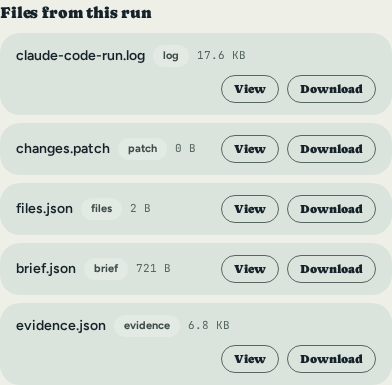
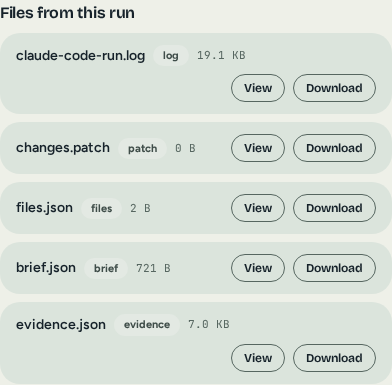
Update: the tutorial shots, workflow.gif, hero.gif and attempt.png retaken after the Phase 78 redesign
The billed recordings were run on 2026-10-20 against a fresh release build. The
tutorial's Agent settings shot now opens the Agent fold, shot 14 shows the whole
run card, hero.gif ends on the run's files, and decision-inbox.png opens on the
questions. The two specs follow the screens (the Run dialog's agent field, the
removed profile snapshot, a runner that answers before the dialog opens, an
authenticated API client). The sidebar's project switcher now names a project
created after the list was read. The tutorial and README texts describe what the
new images show. agents.png and agents-flow.gif stay: their test run starts
Codex, which fails on its configured model.

diff --git a/frontend/e2e/agent-assets.spec.ts b/frontend/e2e/agent-assets.spec.ts
@@ -96,7 +96,10 @@ async function screenshotFullContent(page: Page, outPath: string): Promise<void>
 async function apiFetch(p: string, init?: RequestInit) {
   let lastErr: unknown;
   for (let attempt = 0; attempt < 6; attempt++) {
-    const res = await fetch(`${API}${p}`, init);
+    // The board requires its token; the browser gets it as a cookie from `/`.
+    const headers = new Headers(init?.headers);
+    headers.set('authorization', `Bearer ${process.env.TACK_API_TOKEN ?? ''}`);
+    const res = await fetch(`${API}${p}`, { ...init, headers });
     if (res.ok) {
       if (res.status === 204) return null;
       return res.json();
@@ -163,15 +166,16 @@ test.beforeAll(async () => {
   });
   const deadline = Date.now() + 20_000;
   while (Date.now() < deadline) {
-    const runners = (await apiFetch('/runners')) as { data: Array<{ runner_id: string; state: string }> };
-    const active = runners.data.find((r) => r.state === 'active');
+    const runners = (await apiFetch('/runners')) as { data: Array<{ runner_id: string; state: string; online?: boolean }> };
+    // The Run dialog offers only a runner whose heartbeat is current (`online`).
+    const active = runners.data.find((r) => r.state === 'active' && r.online === true);
     if (active) {
       embeddedRunnerId = active.runner_id;
       break;
     }
     await new Promise((r) => setTimeout(r, 500));
   }
-  if (!embeddedRunnerId) throw new Error('the embedded runner never became active');
+  if (!embeddedRunnerId) throw new Error('the embedded runner never became active and online');
 
   const project = (await apiFetch('/projects', {
     method: 'POST',
@@ -186,7 +190,8 @@ test.beforeAll(async () => {
   await apiFetch(`/projects/${projectId}`, {
     method: 'PATCH',
     headers: { 'content-type': 'application/json' },
-    body: JSON.stringify({ default_harness: 'claude-code', default_model: 'claude-sonnet-5-5' }),
+    // The server fills a run's repository from the project: name the disposable fixture as its folder.
+    body: JSON.stringify({ default_harness: 'claude-code', default_model: 'claude-sonnet-5-5', code_origin: 'folder', repository: repoDir }),
   });
 
   const profile = (await apiFetch('/agent-profiles', {
@@ -221,12 +226,11 @@ test('hero gif', async ({ page }) => {
 
   // The dialog has no repository fields: the server fills the repository from
   // the project, so name the disposable git fixture as the project's folder.
-  const patched = await fetch(`${API}/projects/${projectId}`, {
+  await apiFetch(`/projects/${projectId}`, {
     method: 'PATCH',
     headers: { 'content-type': 'application/json' },
     body: JSON.stringify({ code_origin: 'folder', repository: repoDir }),
   });
-  expect(patched.ok, `set project folder: ${patched.status}`).toBeTruthy();
 
   await page.goto(`${BASE}/projects/${projectId}/board`);
   await waitForApp(page);
@@ -244,7 +248,7 @@ test('hero gif', async ({ page }) => {
 
   await page.getByText('Advanced for this run').click();
   await page.waitForTimeout(400);
-  await page.getByLabel('Agent', { exact: true }).selectOption('claude-code');
+  await page.getByRole('combobox', { name: 'Agent', exact: true }).selectOption('claude-code');
   await page.waitForTimeout(900);
 
   // ── Scene: submit the real dialog ───────────────────────────────────────
@@ -286,8 +290,11 @@ test('hero gif', async ({ page }) => {
 
   await page.getByRole('button', { name: 'Show questions & files' }).first().click();
   await page.waitForTimeout(1500);
-  await expect(page.getByText('Files from this run', { exact: true }).first()).toBeVisible();
-  await page.waitForTimeout(2500);
+  const filesHeading = page.getByText('Files from this run', { exact: true }).first();
+  await expect(filesHeading).toBeVisible();
+  // End on the files themselves: they sit below the fold of the drawer.
+  await filesHeading.scrollIntoViewIfNeeded();
+  await page.waitForTimeout(3500);
 
   // ── Flush the video, convert to GIF ─────────────────────────────────────
   await page.close();
@@ -314,7 +321,7 @@ test('agents screenshot', async ({ page }) => {
 
   await page.goto(`${BASE}/agents`);
   await waitForApp(page);
-  await expect(page.getByText('Agent execution on this machine')).toBeVisible();
+  await expect(page.getByRole('heading', { name: 'Agent execution on this machine' })).toBeVisible();
   await expect(page.getByText('Running', { exact: true }).first()).toBeVisible({ timeout: 10_000 });
 
   // Step 5 — a real test run, through the Agents page's own control (not
@@ -355,7 +362,7 @@ test('agents flow gif', async ({ page }) => {
 
   await page.goto(`${BASE}/agents`);
   await waitForApp(page);
-  await expect(page.getByText('Agent execution on this machine')).toBeVisible();
+  await expect(page.getByRole('heading', { name: 'Agent execution on this machine' })).toBeVisible();
   await expect(page.getByText('Running', { exact: true }).first()).toBeVisible({ timeout: 10_000 });
 
   await page.evaluate(() => {
@@ -427,13 +434,6 @@ test('attempt screenshot', async ({ page }) => {
       agent_profile_id: agentProfileId,
       requested_harness_kind: 'claude-code',
       requested_model: 'claude-sonnet-5-5',
-      agent_profile_snapshot: {
-        name: PROFILE_NAME,
-        instructions: PROFILE_INSTRUCTIONS,
-        tool_policy: {},
-        timeout_seconds: 180,
-        budgets: {},
-      },
       repository_snapshot: { kind: 'git', remote: repoDir, base_revision: repoRev, subdirectory: null },
       permission_policy: { tools: [], network: false },
       budgets: {},

diff --git a/frontend/e2e/tutorial-assets.spec.ts b/frontend/e2e/tutorial-assets.spec.ts
@@ -96,6 +96,18 @@ async function waitForRequestState(
   );
 }
 
+async function waitForRunnerAnswering(timeoutMs = 60_000): Promise<void> {
+  const start = Date.now();
+  while (Date.now() - start < timeoutMs) {
+    const runners = (await apiFetch('/runners')) as {
+      data: Array<{ state: string; online?: boolean }>;
+    };
+    if (runners.data.some((r) => r.state === 'active' && r.online === true)) return;
+    await new Promise((r) => setTimeout(r, 500));
+  }
+  throw new Error('no runner reported active and online within the timeout');
+}
+
 // Same internal-scroll-aware capture as agent-assets.spec.ts: the app's main
 // content area scrolls inside `Layout.tsx`'s overflow container, so a plain
 // screenshot only shows one viewport's worth.
@@ -334,12 +346,16 @@ test.describe.serial('tutorial screenshots', () => {
     // so the run below uses the agent's own default model.
     await page.goto(`${BASE}/projects/${projectId}/settings?tab=automation`);
     await waitForApp(page);
-    const agentSettings = page.locator('div').filter({
+    // Each Automation section is a fold: one line until opened. Open Agent
+    // and photograph that section alone.
+    const agentSettings = page.locator('details').filter({
       has: page.getByRole('heading', { name: 'Agent', exact: true }),
-    }).last();
-    await expect(page.getByRole('heading', { name: 'Agent', exact: true })).toBeVisible();
+    });
+    await expect(agentSettings).toHaveCount(1);
+    await agentSettings.locator('summary').click();
+    await expect(agentSettings.getByText('Default profile')).toBeVisible();
     await page.waitForTimeout(600);
-    await page.getByRole('heading', { name: 'Agent', exact: true }).scrollIntoViewIfNeeded();
+    await agentSettings.scrollIntoViewIfNeeded();
     await page.waitForTimeout(300);
     await agentSettings.screenshot({
       path: path.join(OUT_DIR, '09-default-model.png'),
@@ -382,6 +398,10 @@ test.describe.serial('tutorial screenshots', () => {
       headers: { 'content-type': 'application/json' },
       body: JSON.stringify({ code_origin: 'folder', repository: repoDir }),
     });
+    // The dialog reads the runner list once, when it opens, and offers only a
+    // runner whose heartbeat is current: wait until the runner just turned on
+    // answers, or a fresh start opens the dialog on "Select where this runs".
+    await waitForRunnerAnswering();
     // Tall enough that the dialog (max 90vh) shows the whole flow unscrolled.
     await page.setViewportSize({ width: 1440, height: 2000 });
     await page.goto(`${BASE}/projects/${projectId}/board`);
@@ -466,12 +486,14 @@ test.describe.serial('tutorial screenshots', () => {
     await expect(
       page.getByText(/^Finished/).first(),
     ).toBeVisible({ timeout: 15_000 });
-    // Bring the attempt card fully into the drawer's own scroll viewport —
-    // its cost tiles sit below the fold otherwise.
+    // The whole of Run 1 in one frame: a viewport tall enough for the card,
+    // scrolled inside the drawer so the card's heading is at the top.
+    await page.setViewportSize({ width: 1440, height: 1500 });
+    await page.waitForTimeout(400);
     await page
-      .getByRole('button', { name: 'Show questions & files' })
+      .getByText('Run 1', { exact: true })
       .first()
-      .scrollIntoViewIfNeeded();
+      .evaluate((el) => el.scrollIntoView({ block: 'start' }));
     await page.waitForTimeout(600);
     await page.screenshot({
       path: path.join(OUT_DIR, '14-execution-succeeded.png'),

diff --git a/frontend/src/shared/ui/Sidebar.tsx b/frontend/src/shared/ui/Sidebar.tsx
@@ -90,7 +90,17 @@ const Sidebar: Component = () => {
   });
 
   const currentProjectId = () => params.id as string | undefined;
-  const [projects] = createResource(() => api.projects.list());
+  const [projects, { refetch: refetchProjects }] = createResource(() => api.projects.list());
+  // A project made after the list was read is missing from it, and the switcher would show no name:
+  // read the list again, once for each project that is not in it.
+  let refetchedFor: string | undefined;
+  createEffect(() => {
+    const id = currentProjectId();
+    if (!id || projects.loading || projects.error || refetchedFor === id) return;
+    if (projects()?.some((p) => p.id === id)) return;
+    refetchedFor = id;
+    void refetchProjects();
+  });
   const [health] = createResource(() => api.system.health());
 
   const handleProjectSwitch = (id: string) => {

diff --git a/frontend/e2e/screenshots.spec.ts b/frontend/e2e/screenshots.spec.ts
@@ -394,7 +394,9 @@ test.describe.serial('README screenshots', () => {
   });
 
   test('decision-inbox', async ({ page }) => {
-    await page.setViewportSize({ width: 1440, height: DRAWER_HEIGHT });
+    // Short enough that the drawer can scroll the questions to its top: below the
+    // heading there is about 1000px, so a taller frame would keep the Ids block above it.
+    await page.setViewportSize({ width: 1440, height: 1000 });
     await page.goto(`/projects/${projectId}/board?item=${seeded.decisionItemId}`);
     await waitForApp(page);
     const drawer = page.getByRole('dialog');

diff --git a/docs/book/src/user-guide/tutorial.md b/docs/book/src/user-guide/tutorial.md
@@ -80,12 +80,12 @@ its items with an agent; this tutorial gets there in step 6:
 
 ## 5. Say what "done" means
 
-Click the task to open its drawer. The **Details** tab is the task itself: its description,
-its **Acceptance criteria**, and a collapsed **For the agent** block. Acceptance criteria are a
+Click the task to open its drawer. Its **Overview** tab is the task itself: its description,
+its **Done when** list (the acceptance criteria), and a collapsed **For the agent** block. **Done when** is a
 checklist — one line per thing a person checks before calling the task done. **Add check** adds
 a line, and each line saves when you leave it:
 
-<img src="../screenshots/tutorial/06-brief.png" width="50%" alt="The drawer of 'Draft the launch announcement' on its Details tab: the Run with agent button, the description, three acceptance criteria — About 400 words, Ends with a call to action, A post the team can publish on launch day — with Up, Down and Remove, an Add check button, a collapsed For the agent section, and Link GitHub issue.">
+<img src="../screenshots/tutorial/06-brief.png" width="50%" alt="The drawer of 'Draft the launch announcement' on its Overview tab: the Run with agent button and the task's fields above, then the description, a Done when list of three checks — About 400 words, Ends with a call to action, A post the team can publish on launch day — each with Up, Down and Remove, an Add check button, a collapsed For the agent section, and Link GitHub issue.">
 
 **For the agent** holds what only the agent needs — checks a machine runs, limits on what it
 may touch, and the risk you see — and this announcement needs none of it. The agent receives the
@@ -111,18 +111,18 @@ signed in. Run `<command>` in a terminal.** with a link to that agent's own docu
 holds no model key and never signs in for you. **Run test** at the bottom runs the agent once to
 prove it:
 
-<img src="../screenshots/tutorial/08-agents-on.png" width="98%" alt="The Agents page after Turn on: execution Running with its start time and a Turn off button; Codex v0.149.1 and Claude Code v2.1.291 both installed, the Sign in step with one row per installed agent, saying Signed in or giving the command to run; the Test run section with a Run test button; and a collapsed Advanced section.">
+<img src="../screenshots/tutorial/08-agents-on.png" width="98%" alt="The Agents page after Turn on: execution Running with its start time and a Turn off button; Codex v0.149.1, Claude Code v2.1.304 and OpenCode installed (docket not installed), the Sign in step with one row per installed agent, saying Signed in or giving the command to run; the Test run section with a Run test button; and a collapsed Advanced section.">
 
 ## 7. Set up the project's agent
 
 Everything a run needs from the project lives in its **Settings → Automation** tab: where the
 code is, how the agent works on it (on a new branch of your repo, or in the folder directly),
 what happens when a run finishes, and the **Agent** section — which agent, which model, and the
-default profile:
+default profile. Each section is a single line until you open it; the picture shows **Agent** open:
 
-<img src="../screenshots/tutorial/09-default-model.png" width="60%" alt="The Agent section of a project's Automation settings: agent choices Claude Code, Codex, docket and opencode; the Model field set to Agent's default; default profile choices Implementer, Planner, Researcher and Reviewer; and a Manage profiles link.">
+<img src="../screenshots/tutorial/09-default-model.png" width="60%" alt="The Agent section of a project's Automation settings, opened: 'No default agent'; agent choices Claude Code, Codex and OpenCode; the Model field reading 'Choose an agent first'; default profile choices Implementer, Planner, Researcher and Reviewer; and a Manage profiles link.">
 
-The **Model** field offers **Agent's default** (recommended: the agent uses whatever model it
+Once an agent is chosen, the **Model** field offers **Agent's default** (recommended: the agent uses whatever model it
 uses on its own), the models the agent listed or suggested, and **Another model…**, a text field
 for a name in the agent's own spelling. A line under it says where the list came from, or how to
 name a model, with a link to that agent's own documentation; Tack never checks a typed name. This tutorial leaves the agent unchosen and picks it per run in step 8. It points the
@@ -176,16 +176,18 @@ The drawer follows the run as it happens: the **Last run** panel at the top read
 with the runner that took it. What the agent did, the tokens it used and its cost appear when it
 finishes:
 
-<img src="../screenshots/tutorial/13-execution-running.png" width="98%" alt="The task drawer mid-run: the card's chip reads Starting, the Last run panel reads Running with 'The agent is working on it' and Follow live and Stop, and the Execution tab shows Run 1 Running, started just now, with a note that what it did, its tokens and its cost appear when it finishes.">
+<img src="../screenshots/tutorial/13-execution-running.png" width="98%" alt="The task drawer mid-run: the card's chip on the board reads Running, and the Last run panel at the top of the drawer reads Running, 'The agent is working on it', 'Used 0 of 2 000 000 tokens', with Follow live and Stop buttons and a Run again button below it.">
 
 ## 10. See the result
 
-When the run finishes, the same tab is the record of what happened: one status, what the agent
-said, and its usage — tokens first, then the approximate cost, which is the agent's own estimate
-at list price, not your bill. This agent only wrote text and its profile allows only read tools, so no change was expected
+When the run finishes, the same tab is the record of what happened: one run card with its status,
+the verdict it waits for (**Accept** or **Reject…**), what the agent concluded, what it did and
+what it got, and its usage — tokens counted against the limit, folded under **Usage**; opened, it
+also gives the approximate cost, which is the agent's own estimate at list price, not your bill.
+(The **Last run** panel at the top of the drawer gives the same in short.) This agent only wrote text and its profile allows only read tools, so no change was expected
 and the run reads **Finished — no changes recorded**, and **What the agent concluded** is the announcement itself:
 
-<img src="../screenshots/tutorial/14-execution-succeeded.png" width="98%" alt="The finished run: Run 1 'Finished — no changes recorded', 'The agent ended without changing any files. What it said is below.', Copy path and Log buttons, What the agent said showing the announcement's headline and first paragraph, and usage reading 17K tokens in, 1.8K out, about $0.04, claude-sonnet-5-5 auto-selected, one model call, 16 seconds; the board card behind carries a Finished chip.">
+<img src="../screenshots/tutorial/14-execution-succeeded.png" width="98%" alt="The finished run in the Execution tab: Run 1 'Finished — no changes recorded', a 'This run is waiting for your verdict' banner with Accept and Reject…, the agent and runner, 'The agent ended without changing any files. What it said is below.' with a Copy path button, What the agent concluded showing the opening of the announcement with a Read full report link, What the agent did as a timeline of three steps (Install skipped, agent.model_call, The run ended), What the agent got (Sandboxed with bwrap, no environment variables, the project's folder), a collapsed Usage line reading about 3 000 tokens counted and 0% of its limit, the request and attempt ids with Copy, a Raw log button, and Show questions & files; the board card behind carries a Finished chip.">
 
 **Show questions & files** expands the run's full record. **Files from this run** are
 what it produced, each one click from viewing or downloading: the agent's own run log (the
@@ -193,7 +195,7 @@ announcement is in it), and the record of the change — `changes.patch` (empty 
 only wrote text), `files.json`, the `brief.json` it was given, and the `evidence.json` manifest
 that ties them together:
 
-<img src="../screenshots/tutorial/15-artifacts.png" width="40%" alt="Files from this run: claude-code-run.log (log, 17.6 KB), changes.patch (patch, 0 B), files.json (files, 2 B), brief.json (brief, 721 B) and evidence.json (evidence, 6.8 KB), each with View and Download.">
+<img src="../screenshots/tutorial/15-artifacts.png" width="40%" alt="Files from this run: claude-code-run.log (log, 19.1 KB), changes.patch (patch, 0 B), files.json (files, 2 B), brief.json (brief, 721 B) and evidence.json (evidence, 7.0 KB), each with View and Download.">
 
 A run that changes files reads **Finished — needs your review** instead (and a run that was
 allowed to change files but changed nothing reads **Failed**, with that as its reason), and the card carries a

diff --git a/docs/book/src/roadmap.md b/docs/book/src/roadmap.md
@@ -87,9 +87,11 @@ fix, and the item screen's new design, ordered so each screen and each module is
 ## Phase 78 — one pass over what is still open
 
 **Status:** Rounds 1 to 4 are in `develop` (2026-10-19): every task, and the gate once on the merged
-tree. What is left is the recordings that need a paid model: the tutorial's screenshots and
-`workflow.gif`, `hero.gif` and `agents-flow.gif` still show the screens before this phase, and are
-retaken with the maintainer's agents. Also open, small: a long status name wraps in its board
+tree. The recordings that need a paid model were retaken on 2026-10-20: the tutorial's screenshots,
+`workflow.gif`, `hero.gif` and `attempt.png`. Still to retake: `agents.png` and `agents-flow.gif`
+(the Agents page's test run starts Codex, whose configured model its ChatGPT login does not accept, so it
+fails), the two desktop shots (they need the desktop window) and `recovery-demo.gif` (recorded from a
+published release, so it shows the released screens). Also open, small: a long status name wraps in its board
 column header, a retried request's fingerprint still includes the composed instructions (so a
 title edit answers 409), and the Dependencies tab's links open the drawer, not the page. It gathers
 what the first runs from the desktop app found, the board screen audit, the gaps of earlier phases

diff --git a/CLAUDE.md b/CLAUDE.md
@@ -44,8 +44,10 @@ per-project vocabulary, an MCP server (`tack mcp`), a Tauri desktop app.
 - **Built 2026-10-19:** Phase 78 (the roadmap's own section, no plan file, no ADR) — every other
   open finding in one pass: the desktop app's first runs, the board audit, a page of its own for each
   item with a run card and an Execution tab, and "Done when" ticks. Rounds 1 to 4 are in `develop`,
-  the gate run once; left are the billed recordings (the tutorial's shots and the three gifs show the
-  old screens) and three small items listed in the roadmap.
+  the gate run once; the billed recordings were retaken 2026-10-20 (tutorial shots, `workflow.gif`,
+  `hero.gif`, `attempt.png`); left are `agents.png` and `agents-flow.gif` (the test run starts Codex, whose
+  configured model its login rejects), the desktop shots, `recovery-demo.gif` (a released build) and three
+  small items listed in the roadmap.
 - **The live proof passes (2026-10-18):** `scripts/docket-prill-e2e.sh`, 9 of 9 against docket
   develop and prill on the local model, inside docket's sandbox with a read-only toolchain grant.
   Every other docket test runs against the in-process fake in `crates/tack-runner/tests/fake_docket/`.

diff --git a/README.md b/README.md
@@ -3,7 +3,7 @@
 **An open-source project manager that can assign tasks to AI agents.**
 
 <p align="center">
-  <img src="docs/screenshots/board.png" width="98%" alt="The Tack board: Kanban columns with WIP limits, a run button on every card, and two cards carrying an agent run's live state, Starting and Finished" />
+  <img src="docs/screenshots/board.png" width="98%" alt="The Tack board: Kanban columns with WIP limits, a run button on every card, and two cards carrying an agent run's live state, Asking you and Finished" />
 </p>
 
 <p align="center">
@@ -94,7 +94,7 @@ Scoop, Docker and building from source are in the [Quick Start](https://yielab.g
 
 **2. Add a task** and write its acceptance criteria: what must be true when it's done.
 
-<img src="docs/screenshots/tutorial/06-brief.png" width="45%" alt="A task's details: the Run with agent button, the description, three acceptance criteria and an Add check button." />
+<img src="docs/screenshots/tutorial/06-brief.png" width="45%" alt="A task's details: the Run with agent button, the description, a Done when list of three checks and an Add check button." />
 
 **3. Run it with an agent** and review the result on the task.
 

diff --git a/CHANGELOG.md b/CHANGELOG.md
@@ -271,6 +271,8 @@ automation a template carries, and the removal of dollars per day.
 
 ### Fixed
 
+- **A project you just made is named in the sidebar's switcher.** The switcher read the project list once,
+  so a project created from the board stayed out of it and the switcher showed no name until a reload.
 - **The Agents page finds this computer's runner under its new name.** The runner is named "This computer
   (host name)" now, and the page looked only for the old generated name, so it said to turn agent
   execution on while it was running. Beside it: the profile chips "Changes no files", "Runs no commands"
